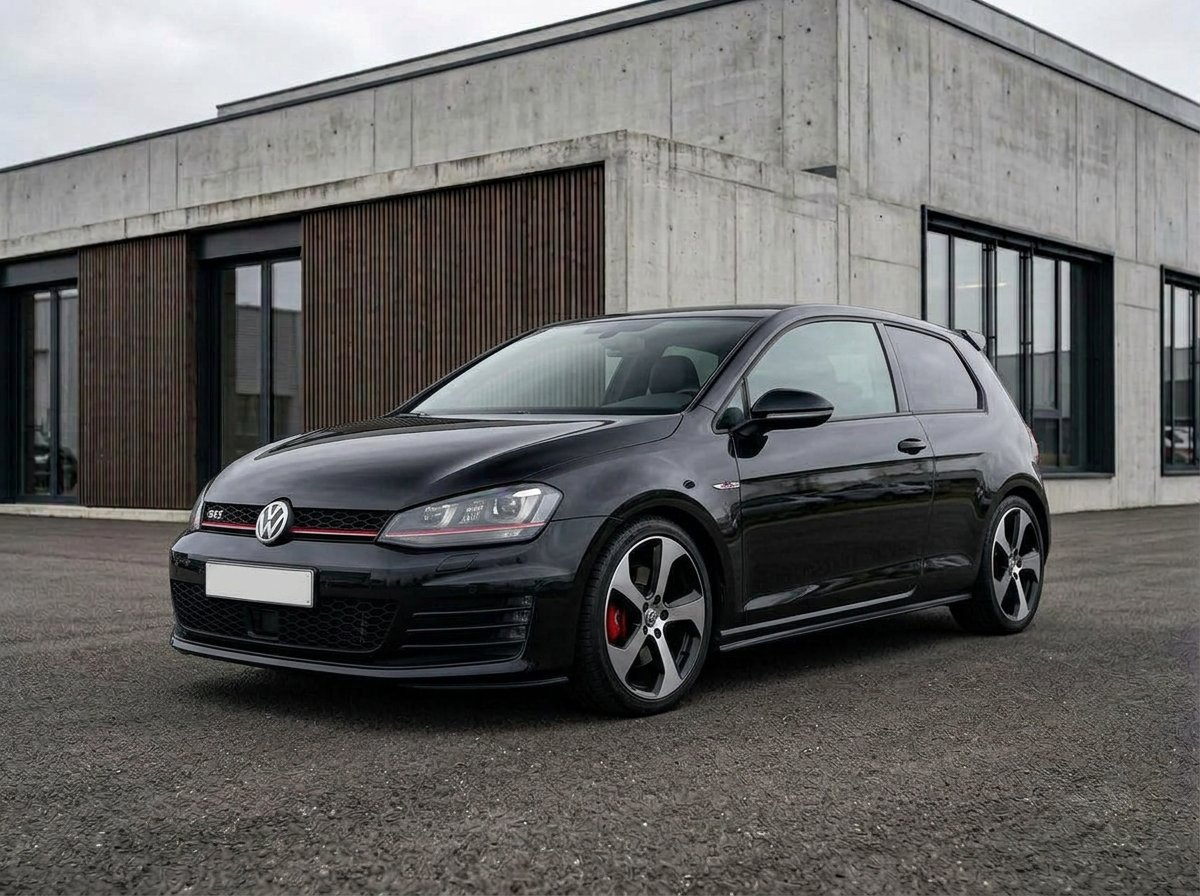
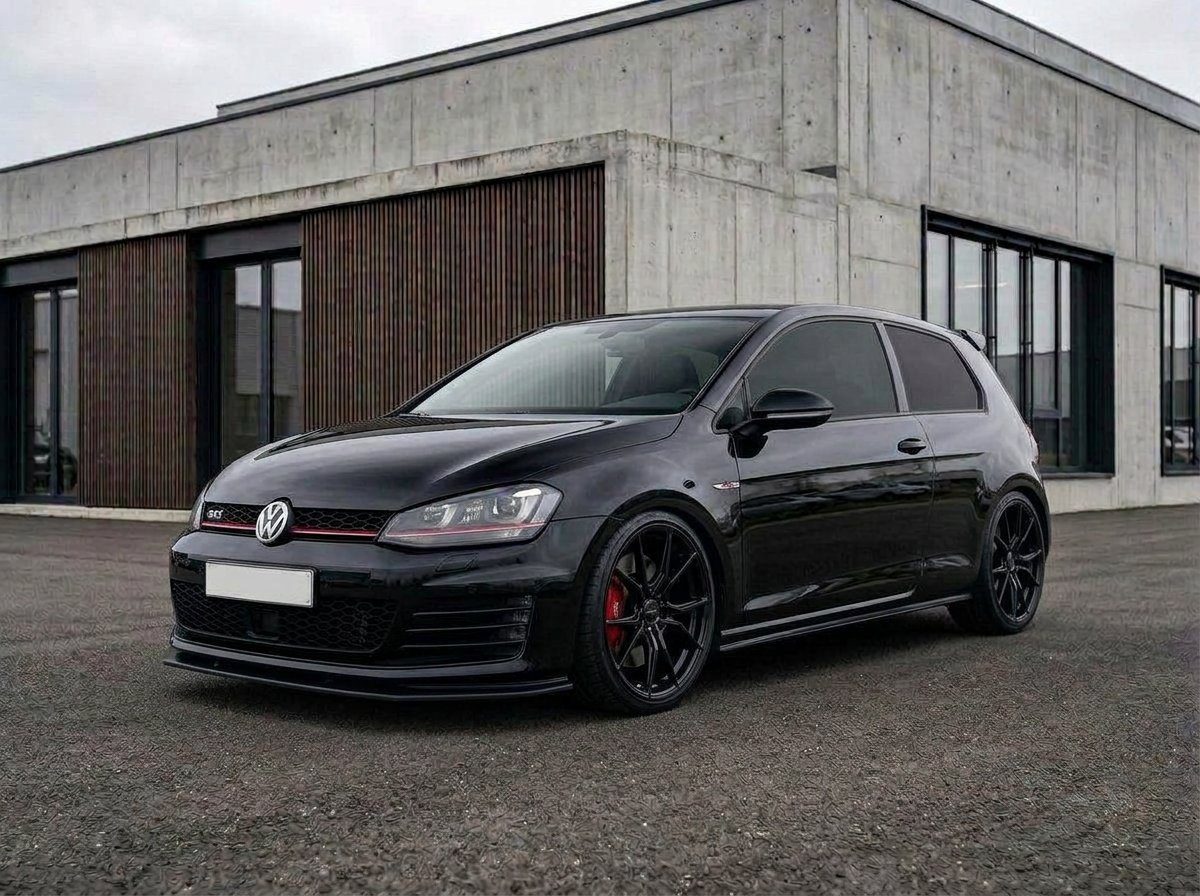
Fotos del Golf GTI ajustadas a la unidad real del anuncio
Partiendo de las ocho fotos que ha pasado el cliente: llantas negras concavas
de 19 pulgadas con pinzas rojas, lip delantero, taloneras, aleron, lunas
traseras tintadas, altura de la roscada y doble salida redonda; interior con
el display Vektor. Escenario y encuadre de la casa sin cambios.

diff --git a/lib/demo.js b/lib/demo.js
@@ -67,7 +67,8 @@ export const DEMO_LISTINGS = [
       'ITV alemana pasada en 05/2026 sin defectos',
       'Intercooler de mayor tamaño y bobinas de encendido nuevas',
       'Embrague nuevo y volante bimasa aligerado',
-      'Suspensión KW, llantas y frenos renovados',
+      'Llantas negras de 19" con pinzas rojas, suspensión KW y frenos renovados',
+      'Display digital Vektor en la consola central',
       'Reformas homologadas en ITV española antes de la entrega',
     ],
     warrantyMonths: 12,
